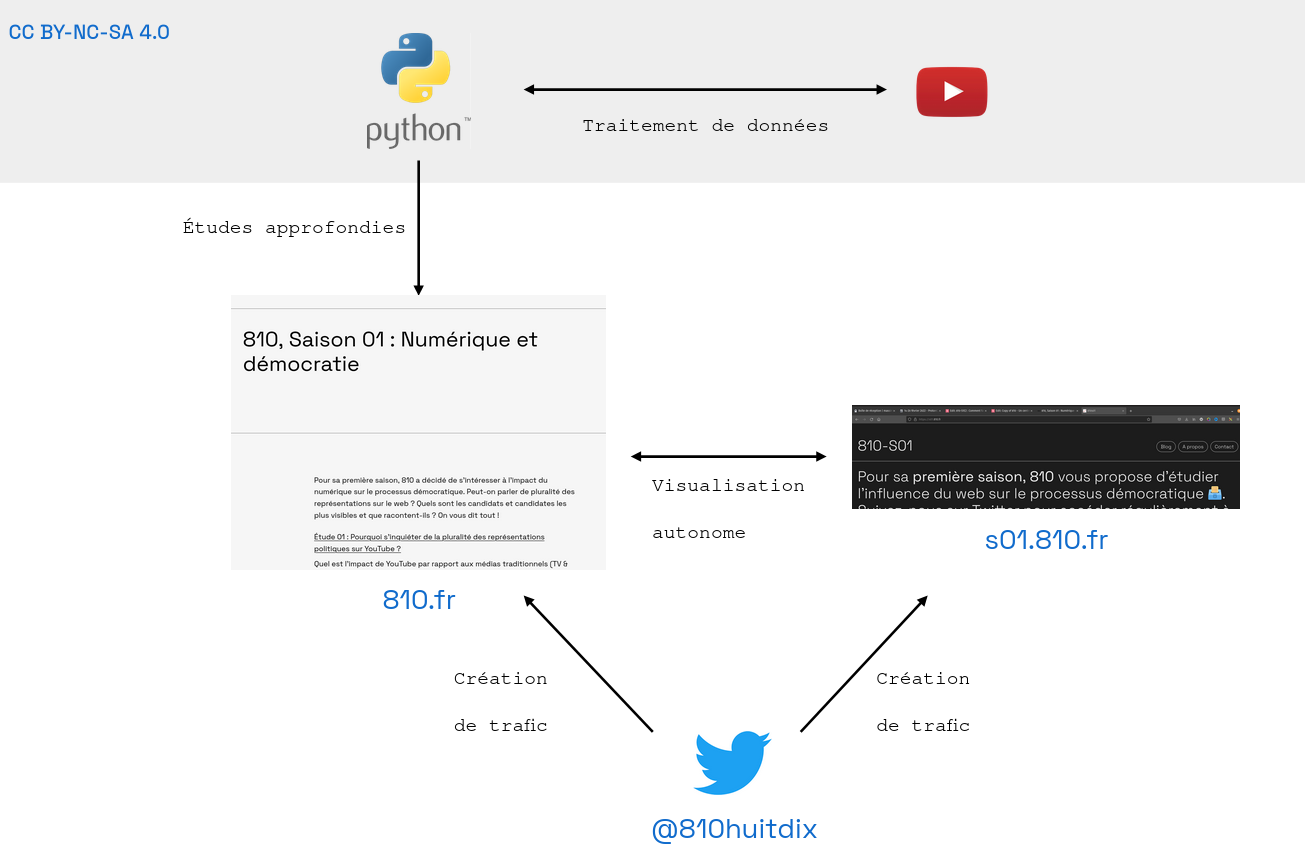
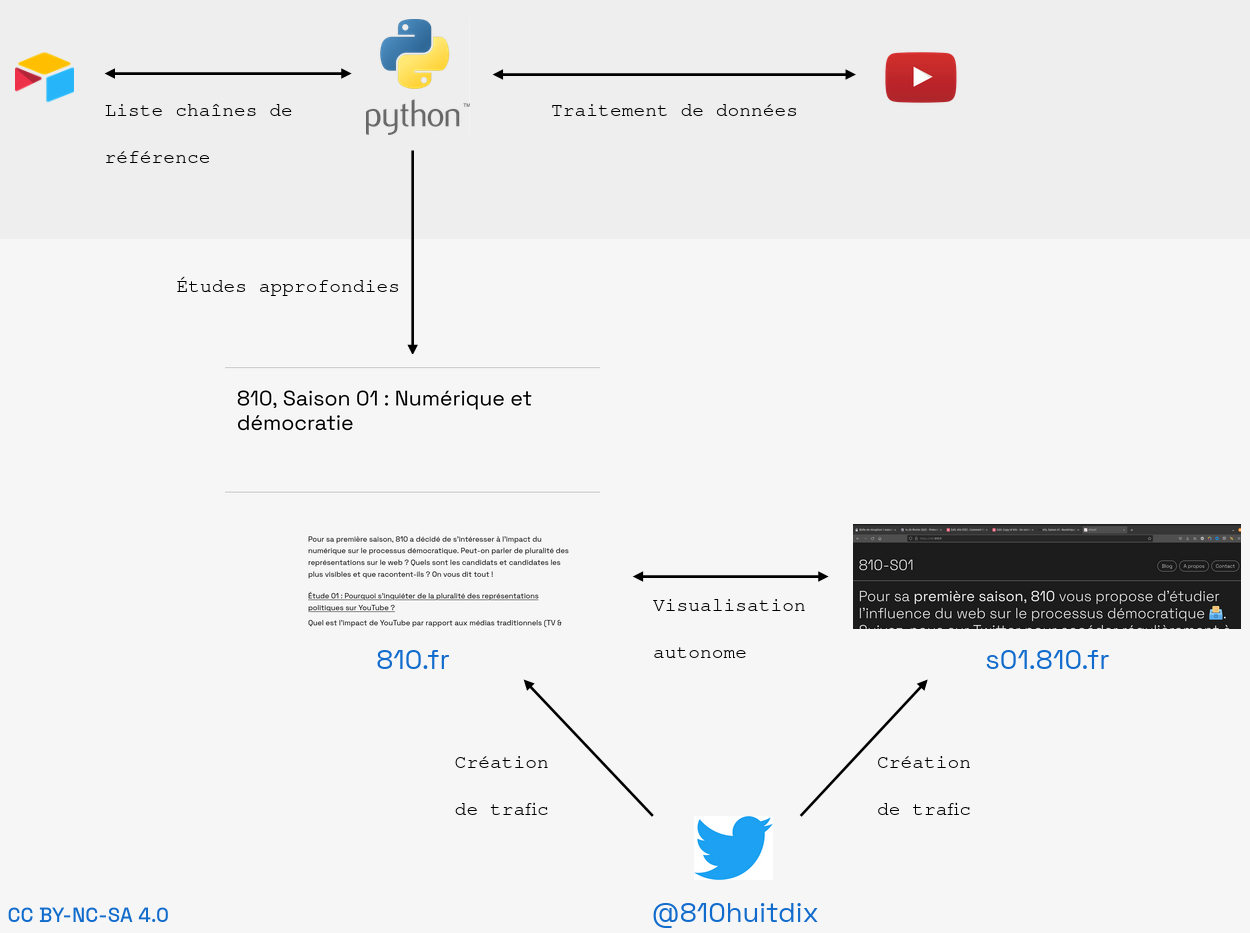
maj readme

diff --git a/README.md b/README.md
@@ -1,6 +1,18 @@
 # Introduction 
 Ce repo contient une partie epuree du code utilise par [810](https://810.fr) pour realiser ses etudes du suivi de la campagne Presidentielle 2022 sur YouTube.
 
+L'architecture du projet suit la forme suivante :
+![image architecture projet](https://raw.githubusercontent.com/centre810/810s01_public_version/main/images/archi_projet.png)
+
+- Un module Python permet de recuperer la liste des chaines a etudier, dans AirTable
+- Une fois la liste chargee en memoire, un module Python questionne les API publiques de YouTube pour recuperer les statistiques des chaines et des videos. Ces donnees sont enregistree dans un fichier .json par chaine.
+- Un module Python permet de transformer tous ces fichiers .json en deux dataframe. Le premiers liste l'ensemble des chaines YouTube et leur statistiques. Le second dataframe liste l'ensemble des videos de toutes les chaines.
+- On cree ensuite des fichiers Jupyter Notebook pour etudier les differentes statistiques.
+
+Ces differents elements sont decrits en details ci-apres.
+
+
+
 
 
 # Dossiers et fichiers
